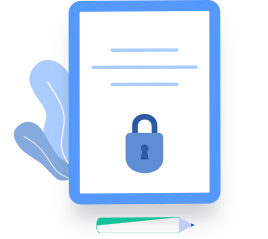
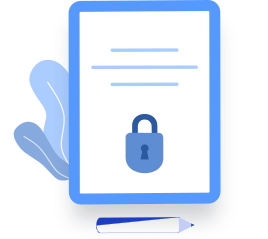
Replace green with a calm periwinkle palette and smoother motion
- New brand scale (buttons #4A68DC, white text ~4.9:1); header and loader
  gradients, toasts, focus rings, switches and dots all move to it
- Status badges: amber for pending, brand blue for fulfilled (no teal)
- Recolor green accents in the onboarding illustrations, app icon,
  adaptive icon and splash to the brand blue; splash background matches
- Motion is eased instead of springy: onboarding pages fade/slide with a
  cubic ease-out, progress dots ease, button press has no bounce, the
  illustration float is slower and subtler, list cards fade in

Claude-Session: https://claude.ai/code/session_01RM52KGDWMksgvkxJcbhMCe

Changed region(s): [[0.3582, 0.9079, 0.6567, 0.9665], [0.4179, 0.9665, 0.6567, 0.9958]]

diff --git a/src/screens/Onboarding.tsx b/src/screens/Onboarding.tsx
@@ -4,13 +4,12 @@ import Animated, {
   Easing,
   FadeInDown,
   FadeOut,
-  SlideInLeft,
-  SlideInRight,
+  FadeInLeft,
+  FadeInRight,
   useAnimatedStyle,
   useSharedValue,
   withRepeat,
   withSequence,
-  withSpring,
   withTiming,
 } from "react-native-reanimated";
 import { Image } from "expo-image";
@@ -30,7 +29,7 @@ const OnboardingStep = ({
   useNavigationOptions({
     options: {
       headerStyle: {
-        backgroundColor: "#ECFDF5", // matches the top of the page gradient
+        backgroundColor: "#F3F6FE", // matches the top of the page gradient
       },
     },
   });
@@ -40,8 +39,8 @@ const OnboardingStep = ({
   useEffect(() => {
     float.value = withRepeat(
       withSequence(
-        withTiming(-8, { duration: 1600, easing: Easing.inOut(Easing.sin) }),
-        withTiming(0, { duration: 1600, easing: Easing.inOut(Easing.sin) }),
+        withTiming(-6, { duration: 2200, easing: Easing.inOut(Easing.sin) }),
+        withTiming(0, { duration: 2200, easing: Easing.inOut(Easing.sin) }),
       ),
       -1,
     );
@@ -92,7 +91,10 @@ function Dot({ active }: { active: boolean }) {
   // The active dot stretches into a pill; the others shrink back.
   const width = useSharedValue(active ? 24 : 10);
   useEffect(() => {
-    width.value = withSpring(active ? 24 : 10, { damping: 14, stiffness: 180 });
+    width.value = withTiming(active ? 24 : 10, {
+      duration: 320,
+      easing: Easing.out(Easing.cubic),
+    });
   }, [active]);
   const style = useAnimatedStyle(() => ({ width: width.value }));
 
@@ -102,7 +104,7 @@ function Dot({ active }: { active: boolean }) {
         {
           height: 10,
           borderRadius: 5,
-          backgroundColor: active ? "#059669" : "#C7D2FE", // primary-green / indigo-200
+          backgroundColor: active ? "#4A68DC" : "#C7D2FE", // primary-green / indigo-200
         },
         style,
       ]}
@@ -174,7 +176,7 @@ export default function Onboarding({ onFinish = () => {} }) {
   return (
     <View className="flex-1 w-full h-full bg-white">
       <LinearGradient
-        colors={["#ECFDF5", "#FFFFFF"]}
+        colors={["#F3F6FE", "#FFFFFF"]}
         style={{ position: "absolute", top: 0, left: 0, right: 0, bottom: 0 }}
         pointerEvents="none"
       />
@@ -194,10 +196,10 @@ export default function Onboarding({ onFinish = () => {} }) {
           {/* Re-keying on step replays the slide-in for each page. */}
           <Animated.View
             key={step}
-            entering={(direction === "forward" ? SlideInRight : SlideInLeft)
-              .springify()
-              .damping(18)}
-            exiting={FadeOut.duration(120)}
+            entering={(direction === "forward" ? FadeInRight : FadeInLeft)
+              .duration(360)
+              .easing(Easing.out(Easing.cubic))}
+            exiting={FadeOut.duration(140)}
           >
             {renderStep()}
           </Animated.View>

diff --git a/tailwind.config.js b/tailwind.config.js
@@ -6,19 +6,19 @@ module.exports = {
     extend: {
       colors: {
         "brand-blue": "#2D68F8",
-        // Emerald brand scale. 700 is the button fill (white text passes
-        // WCAG AA); 600 is for accents, rings and dots.
+        // Calm periwinkle brand scale. 600 is the button fill (white text
+        // ~4.9:1, WCAG AA); lighter steps are for tints and backgrounds.
         brand: {
-          50: "#ECFDF5",
-          100: "#D1FAE5",
-          200: "#A7F3D0",
-          300: "#6EE7B7",
-          400: "#34D399",
-          500: "#10B981",
-          600: "#059669",
-          700: "#047857",
-          800: "#065F46",
-          900: "#064E3B",
+          50: "#F3F6FE",
+          100: "#E6ECFD",
+          200: "#CCD8FB",
+          300: "#A9BDF7",
+          400: "#7F9AF1",
+          500: "#6282EC",
+          600: "#4A68DC",
+          700: "#3F58C6",
+          800: "#34479F",
+          900: "#2C3B7E",
         },
         ink: {
           DEFAULT: "#0F172A",
@@ -30,8 +30,8 @@ module.exports = {
         "dark-4": "#4B5563",
         "dark-7": "#D1D5DB",
         "primary-black": "#637381",
-        "primary-green": "#059669",
-        "pastel-green": "rgba(19, 194, 150, 0.20)",
+        "primary-green": "#4A68DC", // legacy name; now the brand accent
+        "pastel-green": "rgba(74, 104, 220, 0.15)", // legacy name
         "pastel-violet": "rgba(55, 88, 249, 0.20)",
         "pastel-orange": "rgba(242, 116, 48, 0.20)",
         "pastel-blue": {

diff --git a/src/components/Button.tsx b/src/components/Button.tsx
@@ -7,7 +7,8 @@ import Animated, {
 import * as Haptics from "expo-haptics";
 import cx from "classnames";
 
-const PRESS_SPRING = { damping: 15, stiffness: 400, mass: 0.6 };
+// Firm damping: the press settles smoothly without a visible bounce.
+const PRESS_SPRING = { damping: 24, stiffness: 320, mass: 0.6 };
 
 export default function Button({
   text = "",
@@ -44,14 +45,14 @@ export default function Button({
           "flex flex-row items-center justify-center rounded-xl h-12 px-4",
           {
             "bg-gray-200": isDisabled,
-            "bg-brand-700": buttonStyle === "primary",
-            "bg-white border-2 border-solid border-brand-700":
+            "bg-brand-600": buttonStyle === "primary",
+            "bg-white border-2 border-solid border-brand-600":
               buttonStyle === "secondary",
             "bg-brand-blue": buttonStyle === "pro",
           }
         )}
         onPressIn={() => {
-          scale.value = withSpring(0.96, PRESS_SPRING);
+          scale.value = withSpring(0.97, PRESS_SPRING);
         }}
         onPressOut={() => {
           scale.value = withSpring(1, PRESS_SPRING);
@@ -67,7 +68,7 @@ export default function Button({
             isDisabled
               ? " text-gray-500"
               : buttonStyle == "secondary"
-              ? "text-brand-700"
+              ? "text-brand-600"
               : "text-white"
           } text-base font-semibold`}
         >

diff --git a/src/components/Badge.tsx b/src/components/Badge.tsx
@@ -8,23 +8,23 @@ export default function Badge({ type }: { type: string }) {
 
   const bgColor =
     type == MedicalRecordRequestStatus[MedicalRecordRequestStatus.pending]
-      ? "bg-blue-100"
+      ? "bg-amber-50"
       : type == MedicalRecordRequestStatus[MedicalRecordRequestStatus.fulfilled]
-      ? "bg-teal-100"
+      ? "bg-brand-50"
       : "";
 
   const textColor =
     type == MedicalRecordRequestStatus[MedicalRecordRequestStatus.pending]
-      ? "text-gray-700"
+      ? "text-amber-800"
       : type == MedicalRecordRequestStatus[MedicalRecordRequestStatus.fulfilled]
-      ? "text-teal-700"
+      ? "text-brand-700"
       : "";
 
   const dotColor =
     type == MedicalRecordRequestStatus[MedicalRecordRequestStatus.pending]
-      ? "bg-blue-500"
+      ? "bg-amber-500"
       : type == MedicalRecordRequestStatus[MedicalRecordRequestStatus.fulfilled]
-      ? "bg-teal-500"
+      ? "bg-brand-600"
       : "bg-gray-400";
 
   return (

diff --git a/src/components/Toast.tsx b/src/components/Toast.tsx
@@ -7,7 +7,7 @@ export const toastConfig = {
   success: (props) => (
     <BaseToast
       {...props}
-      style={{ backgroundColor: "#ECFDF5", borderLeftColor: "#059669" }}
+      style={{ backgroundColor: "#F3F6FE", borderLeftColor: "#4A68DC" }}
       text1NumberOfLines={3}
       contentContainerStyle={{ paddingHorizontal: 24 }}
       text1Style={{
@@ -33,7 +33,7 @@ export const toastConfig = {
   info: (props) => (
     <BaseToast
       {...props}
-      style={{ borderLeftColor: "#059669" }}
+      style={{ borderLeftColor: "#4A68DC" }}
       text1NumberOfLines={2}
       text1Style={{
         fontSize: 14,

diff --git a/app/home/patient/profile.tsx b/app/home/patient/profile.tsx
@@ -563,7 +563,7 @@ function PublicToAttorneysSection() {
               buttonStyle="secondary"
               text="Edit Description"
               textStyle={{
-                color: "#059669", // primary-green
+                color: "#4A68DC", // primary-green
               }}
               onPress={() => {
                 setIsEditing(true);
@@ -593,7 +593,7 @@ function PublicToAttorneysSection() {
             refetch();
           }}
           trackColor={{
-            true: "#059669", // primary-green
+            true: "#4A68DC", // primary-green
           }}
         />
       </View>

diff --git a/src/components/MedicalRequestList.tsx b/src/components/MedicalRequestList.tsx
@@ -34,9 +34,7 @@ export default function MedicalRequestList({
                 renderItem={({ item, index }) => (
                   // Cards cascade in; cap the delay so long lists stay snappy.
                   <Animated.View
-                    entering={FadeInDown.delay(Math.min(index, 8) * 70)
-                      .springify()
-                      .damping(16)}
+                    entering={FadeInDown.delay(Math.min(index, 8) * 60).duration(380)}
                     layout={LinearTransition}
                   >
                     <MedicalRequestTile medicalRecordRequest={item} />

diff --git a/app/zero_state.tsx b/app/zero_state.tsx
@@ -16,7 +16,7 @@ export default function SignIn() {
         <StatusBar style="light" />
         <View className="flex items-center bg-white w-full h-full mt-4 rounded-2xl">
           <Animated.View
-            entering={ZoomIn.springify().damping(14)}
+            entering={ZoomIn.duration(420)}
             style={{ width: 96, height: 96, marginRight: 24, marginTop: 160 }}
           >
             <Image

diff --git a/src/components/BrandGradient.tsx b/src/components/BrandGradient.tsx
@@ -2,7 +2,7 @@ import { LinearGradient } from "expo-linear-gradient";
 import { StyleProp, ViewStyle } from "react-native";
 
 // Brand gradient used behind headers, the loader and hero areas.
-export const BRAND_GRADIENT = ["#10B981", "#059669", "#047857"] as const;
+export const BRAND_GRADIENT = ["#6282EC", "#4A68DC", "#3F58C6"] as const;
 
 export default function BrandGradient({
   style,

diff --git a/app/_layout.tsx b/app/_layout.tsx
@@ -32,7 +32,7 @@ export default function AppLayout() {
               headerShadowVisible: false,
               headerBackVisible: false,
               headerStyle: {
-                backgroundColor: "#10B981",
+                backgroundColor: "#6282EC",
               },
               // Smooth, consistent push transitions across the app.
               animation: "slide_from_right",

diff --git a/src/components/Field.tsx b/src/components/Field.tsx
@@ -85,7 +85,7 @@ export const TextInput = React.forwardRef<
           accessibilityLabel={hide ? "Show password" : "Hide password"}
           onPress={() => setHide(!hide)}
         >
-          <Eye color={hide ? "#6B7280" : "#059669"} />
+          <Eye color={hide ? "#6B7280" : "#4A68DC"} />
         </Pressable>
       )}
     </View>

diff --git a/app.config.js b/app.config.js
@@ -9,7 +9,7 @@ export default {
     splash: {
       image: "./assets/splash.png",
       resizeMode: "contain",
-      backgroundColor: "#ffffff",
+      backgroundColor: "#4A68DC",
     },
     assetBundlePatterns: ["**/*"],
     plugins: ["expo-apple-authentication", "expo-router"],
